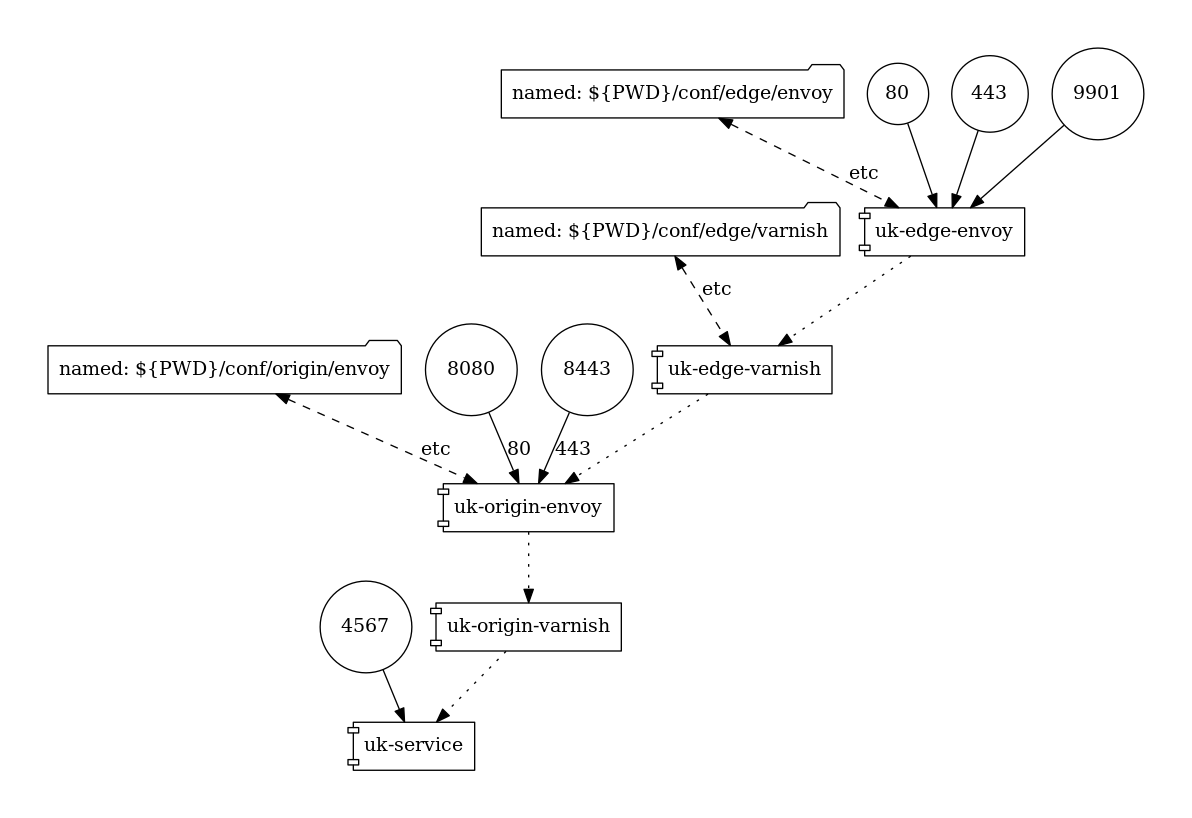
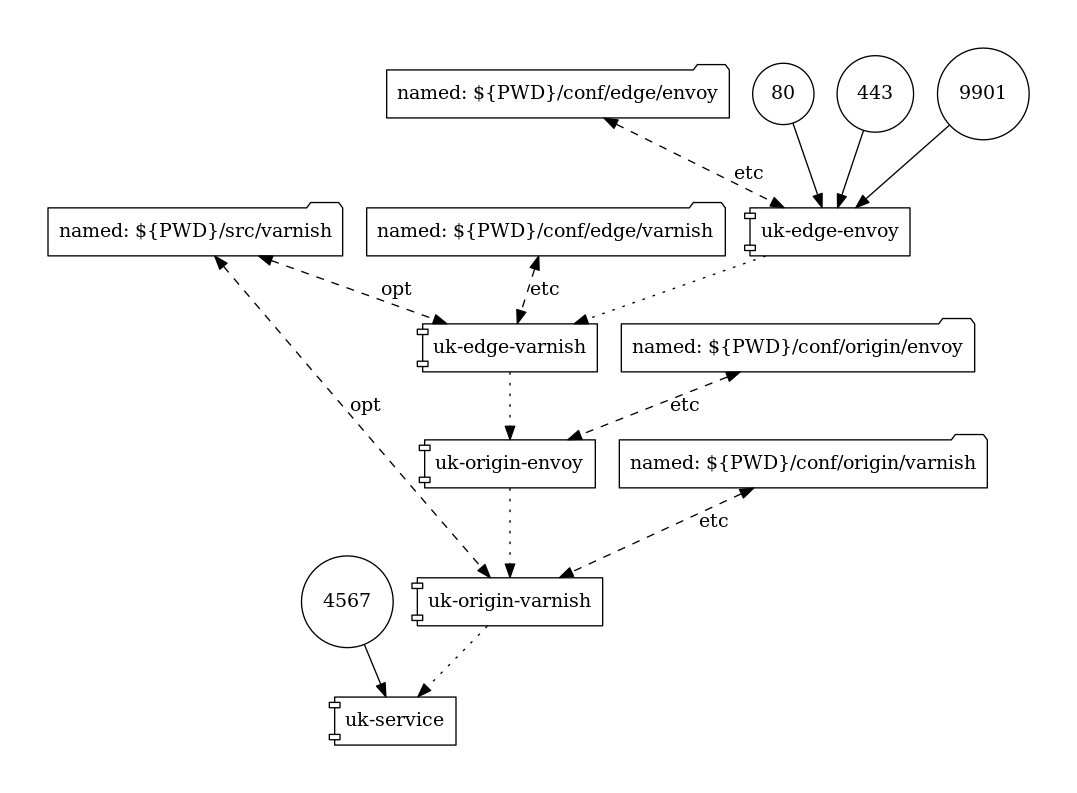
Working implementation, more or less

diff --git a/README.md b/README.md
@@ -1,0 +1,11 @@
+# envoy-varnish-ha-layer
+
+## Goal
+
+Highly avaliable n-tier varnish cache using envoy tracing to analyse functional behaviour such that we ca recognise impact of varnish cluster structure changes and cache clearing events against backend service.
+
+ ![alt](docker-compose.png)
+
+## Useful things
+
+https://github.com/pmsipilot/docker-compose-viz
